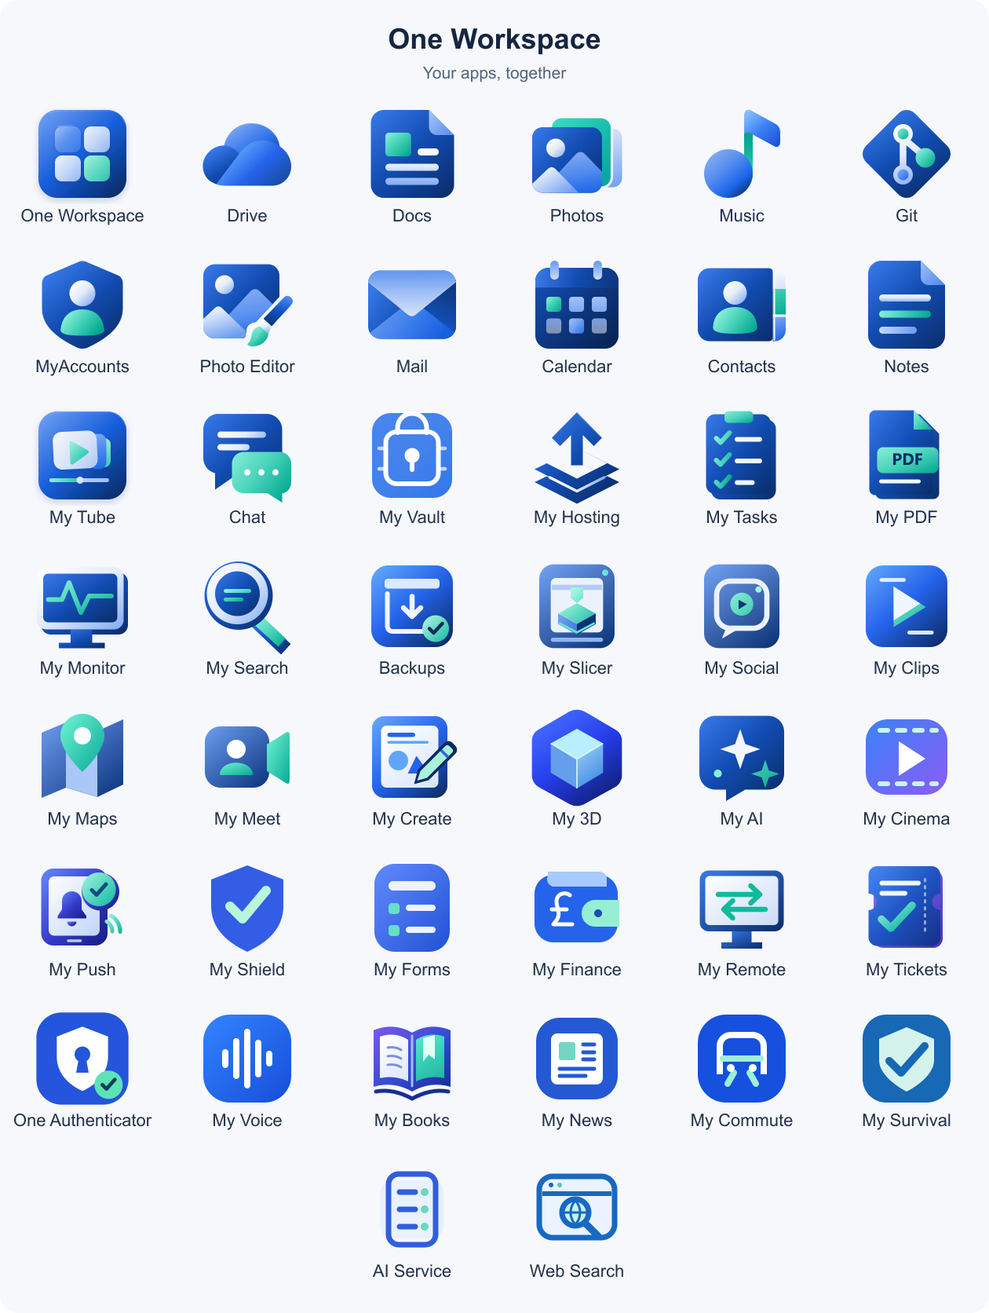
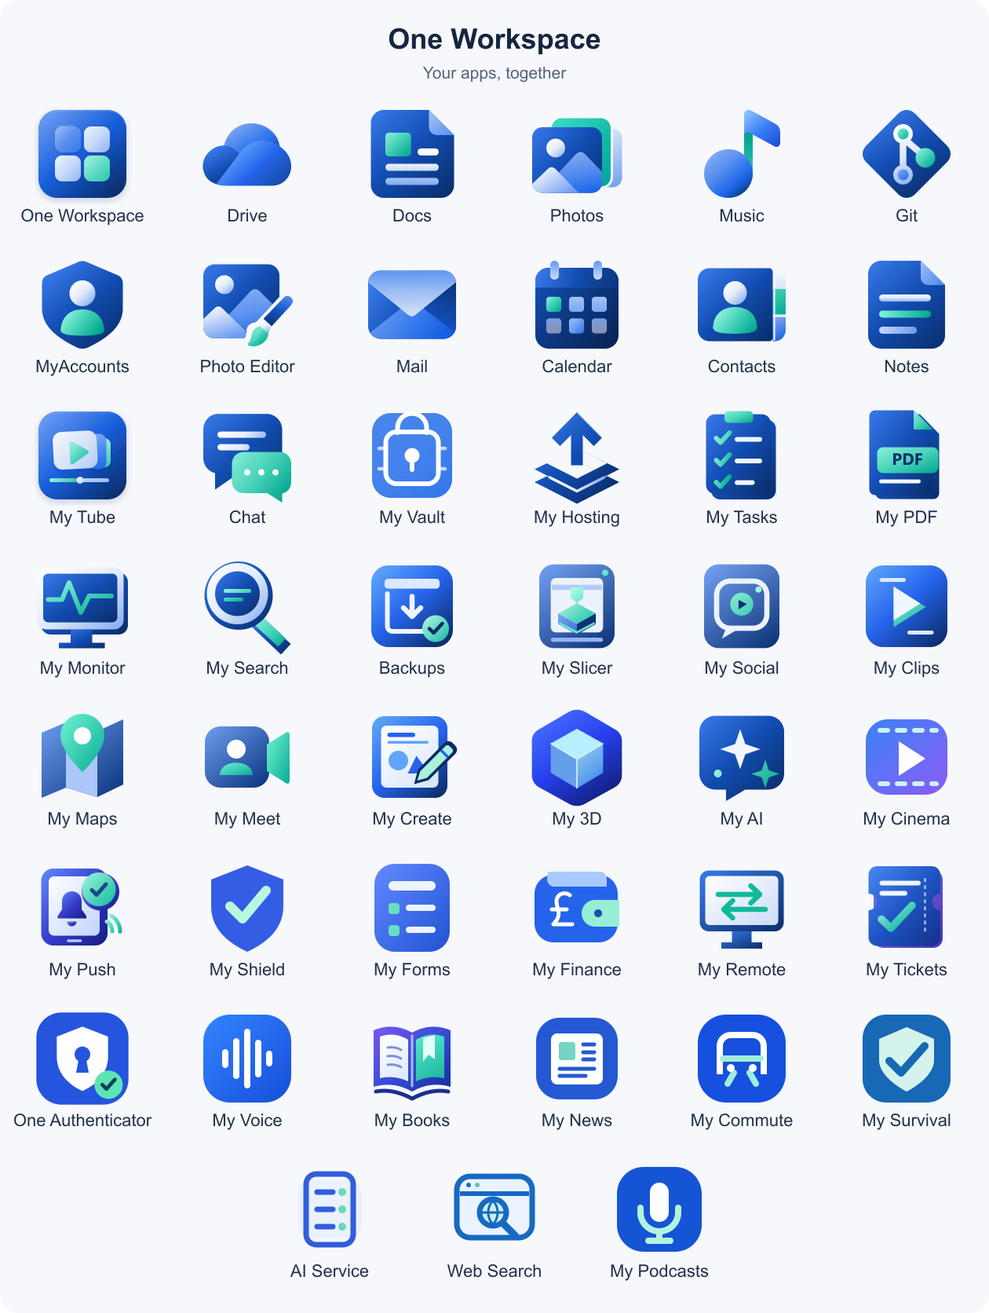
Integrate My Podcasts managed catalog runtime and update ownership

Changed region(s): [[0.2786, 0.8708, 0.7119, 0.9952]]

diff --git a/docs/branding/index.html b/docs/branding/index.html
@@ -2,6 +2,6 @@
 <html lang="en"><head><meta charset="utf-8"><meta name="viewport" content="width=device-width,initial-scale=1"><title>One Workspace logos</title><link rel="icon" href="../../internal/branding/icons/one_workspace.svg"><style>
 *{box-sizing:border-box}body{margin:0;background:#f4f6fb;color:#17233b;font:16px system-ui,sans-serif}main{max-width:1180px;margin:40px auto;padding:0 26px}header{display:flex;gap:20px;align-items:center;margin-bottom:32px}header img{width:72px;height:72px}h1{font-size:32px;margin:0 0 8px;letter-spacing:-1px}p{margin:0;color:#65718a}.grid{display:grid;grid-template-columns:repeat(4,1fr);gap:20px}article{background:white;border:1px solid #dfe5ef;border-radius:18px;overflow:hidden}h2{font-size:16px;margin:20px}.samples{display:flex;align-items:center;justify-content:center;gap:18px;height:136px;background:repeating-conic-gradient(#edf0f6 0% 25%,white 0% 50%) 50%/20px 20px}.samples img{width:80px;height:80px}.dark{background:#11182a}.small{display:flex;align-items:center;gap:14px;padding:20px;color:#7b879b;font-size:12px}.small img{flex:none}@media(max-width:850px){.grid{grid-template-columns:repeat(2,1fr)}}@media(max-width:450px){.grid{grid-template-columns:1fr}}
 </style></head><body><main><header><img src="../../internal/branding/icons/one_workspace.svg" alt=""><div><h1>One Workspace</h1><p>The complete app collection · shared blue artwork</p></div></header><div class="grid" id="logos"></div></main><script>
-const apps=[["one_workspace","One Workspace"],["my_drive","Drive"],["my_office","Docs"],["my_photos","Photos"],["my_music","Music"],["my_git","Git"],["my_accounts","MyAccounts"],["photo_editor","Photo Editor"],["my_mail","Mail"],["my_calendar","Calendar"],["my_contacts","Contacts"],["my_notes","Notes"],["my_tube","My Tube"],["my_chat","Chat"],["my_vault","My Vault"],["my_hosting","My Hosting"],["my_tasks","My Tasks"],["my_pdf","My PDF"],["my_monitor","My Monitor"],["my_search","My Search"],["backups","Backups"],["my_slicer","My Slicer"],["my_social","My Social"],["my_clips","My Clips"],["my_maps","My Maps"],["my_meet","My Meet"],["my_create","My Create"],["my_3d","My 3D"],["my_ai","My AI"],["my_cinema","My Cinema"],["my_push","My Push"],["my_shield","My Shield"],["my_forms","My Forms"],["my_finance","My Finance"],["my_remote","My Remote"],["my_tickets","My Tickets"],["one_authenticator","One Authenticator"],["my_voice","My Voice"],["my_books","My Books"],["my_news","My News"],["my_commute","My Commute"],["my_survival","My Survival"],["ai_service","AI Service"],["web_search","Web Search"]];
+const apps=[["one_workspace","One Workspace"],["my_drive","Drive"],["my_office","Docs"],["my_photos","Photos"],["my_music","Music"],["my_git","Git"],["my_accounts","MyAccounts"],["photo_editor","Photo Editor"],["my_mail","Mail"],["my_calendar","Calendar"],["my_contacts","Contacts"],["my_notes","Notes"],["my_tube","My Tube"],["my_chat","Chat"],["my_vault","My Vault"],["my_hosting","My Hosting"],["my_tasks","My Tasks"],["my_pdf","My PDF"],["my_monitor","My Monitor"],["my_search","My Search"],["backups","Backups"],["my_slicer","My Slicer"],["my_social","My Social"],["my_clips","My Clips"],["my_maps","My Maps"],["my_meet","My Meet"],["my_create","My Create"],["my_3d","My 3D"],["my_ai","My AI"],["my_cinema","My Cinema"],["my_push","My Push"],["my_shield","My Shield"],["my_forms","My Forms"],["my_finance","My Finance"],["my_remote","My Remote"],["my_tickets","My Tickets"],["one_authenticator","One Authenticator"],["my_voice","My Voice"],["my_books","My Books"],["my_news","My News"],["my_commute","My Commute"],["my_survival","My Survival"],["ai_service","AI Service"],["web_search","Web Search"],["my_podcasts","My Podcasts"]];
 document.querySelector('#logos').innerHTML=apps.map(([file,name])=>`<article><h2>${name}</h2><div class="samples"><img src="../../internal/branding/icons/${file}.svg" alt="${name}"></div><div class="samples dark"><img src="../../internal/branding/icons/${file}.svg" alt=""></div><div class="small"><img src="${file}-32.png" width="16" height="16" alt=""><img src="${file}-32.png" width="24" height="24" alt=""><img src="${file}-32.png" width="32" height="32" alt=""><span>16 · 24 · 32</span></div></article>`).join('');
 </script></body></html>

diff --git a/scripts/build-managed-seed.py b/scripts/build-managed-seed.py
@@ -9,6 +9,7 @@ from managed_component import remote_component, tickets_component, hosting_repla
 from voice_component import voice_component
 from books_component import books_component
 from commute_component import commute_component
+from podcasts_component import podcasts_component
 from survival_component import survival_component
 from myai_component import myai_replacements
 from websearch_component import websearch_component
@@ -41,7 +42,7 @@ def extract(z,target):
    assert (m.external_attr>>16)&0o170000!=0o120000
   src.extractall(target)
 def main():
- p=argparse.ArgumentParser();p.add_argument('--go',default='go');p.add_argument('--version',required=True);p.add_argument('--cache',required=True);p.add_argument('--out',required=True);p.add_argument('--seed-archive');p.add_argument('--myai-candidate',help='Local acceptance only; publisher rejects candidate builds');p.add_argument('--tickets-candidate',help='Local acceptance only; publisher rejects candidate builds');p.add_argument('--authenticator-candidate',help='Local acceptance only');p.add_argument('--accounts-candidate',help='Local acceptance only');p.add_argument('--books-candidate',help='Local My Books acceptance archive; not a public pin');p.add_argument('--voice-candidate',help='Local acceptance only; publisher rejects candidate builds');p.add_argument('--news-candidate',help='Local My News acceptance archive; not a public pin');p.add_argument('--commute-candidate',help='Local My Commute acceptance only; never publish');p.add_argument('--survival-candidate',help='Local My Survival acceptance only');a=p.parse_args()
+ p=argparse.ArgumentParser();p.add_argument('--go',default='go');p.add_argument('--version',required=True);p.add_argument('--cache',required=True);p.add_argument('--out',required=True);p.add_argument('--seed-archive');p.add_argument('--myai-candidate',help='Local acceptance only; publisher rejects candidate builds');p.add_argument('--tickets-candidate',help='Local acceptance only; publisher rejects candidate builds');p.add_argument('--authenticator-candidate',help='Local acceptance only');p.add_argument('--accounts-candidate',help='Local acceptance only');p.add_argument('--books-candidate',help='Local My Books acceptance archive; not a public pin');p.add_argument('--voice-candidate',help='Local acceptance only; publisher rejects candidate builds');p.add_argument('--news-candidate',help='Local My News acceptance archive; not a public pin');p.add_argument('--commute-candidate',help='Local My Commute acceptance only; never publish');p.add_argument('--survival-candidate',help='Local My Survival acceptance only');p.add_argument('--podcasts-candidate',help='Local My Podcasts acceptance only; never publish');a=p.parse_args()
  cache=Path(a.cache).resolve();out=Path(a.out).resolve();cache.mkdir(parents=True,exist_ok=True);out.mkdir(parents=True,exist_ok=True)
  lock=json.loads((ROOT/'organization-components.lock.json').read_text(encoding='utf-8-sig'))
  seed=asset(lock['managedSeed'],cache,a.seed_archive);remote=asset(lock['myRemote'],cache)
@@ -93,12 +94,17 @@ def main():
  elif lock.get('mySurvival'):survival=asset(lock['mySurvival'],cache)
  else:raise ValueError('Publish and pin My Survival before a release, or use --survival-candidate for local acceptance')
  survival_stage=Path(tempfile.mkdtemp(prefix='survival-',dir=cache));extract(survival,survival_stage)
- contracts=[websearch_component(ROOT,a.go,cache/'websearch',a.version),survival_component(survival_stage,allow_candidate=bool(a.survival_candidate)),news_contract,commute_contract,books_contract,contract,ticket_contract,authenticator_component(auth_stage),voice_component(voice_stage,allow_candidate=bool(a.voice_candidate))]
+ if a.podcasts_candidate:podcasts=Path(a.podcasts_candidate).resolve()
+ elif lock.get('myPodcasts'):podcasts=asset(lock['myPodcasts'],cache)
+ else:raise ValueError('Publish and pin My Podcasts or pass --podcasts-candidate for local acceptance')
+ podcasts_stage=Path(tempfile.mkdtemp(prefix='podcasts-',dir=cache));extract(podcasts,podcasts_stage)
+ podcasts_contract=podcasts_component(podcasts_stage,allow_candidate=bool(a.podcasts_candidate))
+ contracts=[podcasts_contract,websearch_component(ROOT,a.go,cache/'websearch',a.version),survival_component(survival_stage,allow_candidate=bool(a.survival_candidate)),news_contract,commute_contract,books_contract,contract,ticket_contract,authenticator_component(auth_stage),voice_component(voice_stage,allow_candidate=bool(a.voice_candidate))]
  env=os.environ.copy();env.update(CGO_ENABLED='0',GOTOOLCHAIN='local')
  def go(*args):subprocess.run([a.go,*args],cwd=ROOT,env=env,check=True)
  go('build','-buildvcs=false','-trimpath','-ldflags',f'-s -w -X main.version={a.version}','-o',str(out/'Workspace.exe'),'./cmd/workspace')
  with zipfile.ZipFile(seed) as base:
-  cat=json.loads(base.read('catalog.json'));old=json.loads(json.dumps(cat));cat['version']=a.version;cat['installerIntegration']=13
+  cat=json.loads(base.read('catalog.json'));old=json.loads(json.dumps(cat));cat['version']=a.version;cat['installerIntegration']=14
   for key,item in old['packages'].items():
    h=hashlib.sha256();size=0
    with base.open(item['file']) as src:
@@ -137,6 +143,6 @@ def main():
     for item in contract['inputs'].values():dst.write(item['source'],item['file'])
  shutil.copyfile(payload,out/'workspace-bundle.zip')
  go('build','-buildvcs=false','-trimpath','-ldflags','-s -w -X github.com/oneworkspacestudio/one-workspace/internal/distribution.Repository=oneworkspacestudio/one-workspace','-o',str(out/'WorkspaceSetup-windows-amd64.exe'),'./cmd/setup')
- (out/'managed-build.json').write_text(json.dumps({'schema':1,'version':a.version,'seed':lock['managedSeed'],'remote':lock['myRemote'],'tickets':lock['myTickets'],'accounts':lock['accounts'],'hosting':lock['myHosting'],'voice':lock['myVoice'],'authenticator':lock['oneAuthenticator'],'books':lock.get('myBooks'),'news':lock.get('myNews'),'commute':lock.get('myCommute'),'myAI':lock['myAI'],'myTube':lock['myTube'],'mySlicer':lock['mySlicer'],'myFinance':lock['myFinance'],'survival':lock.get('mySurvival'),'candidate':bool(a.myai_candidate or a.survival_candidate or a.commute_candidate or a.news_candidate or a.books_candidate or a.tickets_candidate or a.authenticator_candidate or a.accounts_candidate or a.voice_candidate),'priorAppContractsRetainedExceptAccountsHostingMyAIMyTubeSlicerAndFinanceVersions':True,'priorPackagesRetainedExceptManagerAccountsHostingMyAIMyTubeSlicerFinanceAndReleaseNotes':True,'completeInventory':len(cat['apps']),'builder':'scripts/build-managed-seed.py'},indent=2),encoding='utf-8')
+ (out/'managed-build.json').write_text(json.dumps({'schema':1,'version':a.version,'seed':lock['managedSeed'],'remote':lock['myRemote'],'tickets':lock['myTickets'],'accounts':lock['accounts'],'hosting':lock['myHosting'],'voice':lock['myVoice'],'authenticator':lock['oneAuthenticator'],'books':lock.get('myBooks'),'news':lock.get('myNews'),'commute':lock.get('myCommute'),'myAI':lock['myAI'],'myTube':lock['myTube'],'mySlicer':lock['mySlicer'],'myFinance':lock['myFinance'],'survival':lock.get('mySurvival'),'podcasts':lock.get('myPodcasts'),'candidate':bool(a.podcasts_candidate or a.myai_candidate or a.survival_candidate or a.commute_candidate or a.news_candidate or a.books_candidate or a.tickets_candidate or a.authenticator_candidate or a.accounts_candidate or a.voice_candidate),'priorAppContractsRetainedExceptAccountsHostingMyAIMyTubeSlicerAndFinanceVersions':True,'priorPackagesRetainedExceptManagerAccountsHostingMyAIMyTubeSlicerFinanceAndReleaseNotes':True,'completeInventory':len(cat['apps']),'builder':'scripts/build-managed-seed.py'},indent=2),encoding='utf-8')
  print('Verified managed bundle:',len(cat['apps']),'apps;',len(cat['packages']),'packages',flush=True)
 if __name__=='__main__':main()

diff --git a/scripts/podcasts_component.py b/scripts/podcasts_component.py
@@ -1,0 +1,25 @@
+"""My Podcasts package: one executable with embedded UI and private apphost state."""
+import hashlib,json,re
+from pathlib import Path
+
+def podcasts_component(root,allow_candidate=False):
+ root=Path(root).resolve();c=json.loads((root/'compatibility.json').read_text(encoding='utf-8-sig'));m=json.loads((root/'manifest.json').read_text(encoding='utf-8-sig'))
+ assert c['schema']==1 and c['id']=='podcasts' and c['route']=='/podcasts' and c['oidc'] is True
+ assert c['workspaceInstallerIntegration']==14 and c['minimumWorkspaceVersion']=='0.3.0-preview.122'
+ assert c['singleExecutable'] is True and c['capabilities']==['native-podcasts-v1']
+ assert m['version']==c['version'] and m['executableSHA256']==hashlib.sha256((root/'MyPodcasts.exe').read_bytes()).hexdigest()
+ if not allow_candidate:assert m.get('candidate') is False and re.fullmatch('[a-f0-9]{40}',m.get('sourceCommit',''))
+ inputs={}
+ for p in sorted(root.rglob('*')):
+  if not p.is_file():continue
+  rel=p.relative_to(root).as_posix()
+  if rel=='MyPodcasts.exe':key,dest='podcasts',rel
+  elif rel in ['LICENSE','NOTICE','THIRD-PARTY-NOTICES.md']:key,dest='podcasts-'+rel,'licenses/MyPodcasts-'+rel
+  elif rel in ['compatibility.json','manifest.json']:key,dest='podcasts-'+('contract' if rel=='compatibility.json' else 'manifest'),'docs/MyPodcasts/'+rel
+  elif rel.startswith('licenses/'):key,dest='podcasts-license-'+hashlib.sha256(rel.encode()).hexdigest()[:16],'licenses/MyPodcasts/'+rel[9:]
+  elif rel in ['README.md','docs/ACCEPTANCE.md','docs/DATA-SOURCES.md','docs/SECURITY.md','docs/PRODUCTION.md']:key,dest='podcasts-doc-'+hashlib.sha256(rel.encode()).hexdigest()[:16],'docs/MyPodcasts/'+rel
+  else:raise ValueError('Unexpected Podcasts payload '+rel)
+  inputs[key]={'source':str(p),'file':dest}
+ assert all(k in inputs for k in ['podcasts','podcasts-contract','podcasts-manifest','podcasts-LICENSE','podcasts-NOTICE'])
+ app={'id':'podcasts','name':'My Podcasts','description':'Create researched technology podcasts with private background production','version':c['version'],'kind':'process','package':'podcasts','executable':'MyPodcasts.exe','port':9044,'route':'/podcasts','stripPrefix':True,'health':'/healthz','depends':['accounts'],'oidc':True,'callback':'/podcasts/auth/callback','args':['--data','${DATA}/podcasts','--listen','127.0.0.1:${PORT}','--origin','${ORIGIN}/podcasts','--no-browser'],'source':'https://github.com/oneworkspacestudio/my-podcasts/releases/tag/v'+c['version']}
+ return {'app':app,'inputs':inputs}

diff --git a/scripts/test-publisher.py b/scripts/test-publisher.py
@@ -12,10 +12,11 @@ class PublisherWindowsArguments(unittest.TestCase):
     def test_books_publisher_requires_current_complete_inventory(self):
         registry=json.loads((publisher.ROOT/'internal/catalog/managed-apps.json').read_text())['apps']
         apps=[dict(id=a['id'],name=a['name'],route=a['route'],oidc=a['oidc'],source='https://github.com/'+a['repository']+'/releases/tag/test') for a in registry]
-        publisher.validate_managed_catalog(dict(installerIntegration=13,apps=apps))
-        with self.assertRaises(RuntimeError):publisher.validate_managed_catalog(dict(installerIntegration=9,apps=apps))
-        with self.assertRaises(RuntimeError):publisher.validate_managed_catalog(dict(installerIntegration=13,apps=[a for a in apps if a['id']!='books']))
-        with self.assertRaises(RuntimeError):publisher.validate_managed_catalog(dict(installerIntegration=13,apps=[a for a in apps if a['id']!='aiservice']))
+        publisher.validate_managed_catalog(dict(installerIntegration=14,apps=apps))
+        with self.assertRaises(RuntimeError):publisher.validate_managed_catalog(dict(installerIntegration=13,apps=apps))
+        with self.assertRaises(RuntimeError):publisher.validate_managed_catalog(dict(installerIntegration=14,apps=[a for a in apps if a['id']!='podcasts']))
+        with self.assertRaises(RuntimeError):publisher.validate_managed_catalog(dict(installerIntegration=14,apps=[a for a in apps if a['id']!='books']))
+        with self.assertRaises(RuntimeError):publisher.validate_managed_catalog(dict(installerIntegration=14,apps=[a for a in apps if a['id']!='aiservice']))
     def test_large_catalog_uploads_every_asset_once_with_bounded_utf16_commands(self):
         paths = ['C:/Synthetic staging folder \U0001f4e6/' + 'x'*100 + '/workspace-package-' + str(n) + '.bin' for n in range(600)]
         commands = list(publisher.upload_commands('v0.3.0-preview.104', paths))

diff --git a/internal/distribution/requirements.go b/internal/distribution/requirements.go
@@ -11,7 +11,7 @@ var managerRequirementVersion = regexp.MustCompile(`^[0-9]+\.[0-9]+\.[0-9]+(?:-[
 // Add a capability only after its manager integration exists and is tested.
 // The origin capability is exercised with actual native SSO, catalog and logout
 // fixtures. It does not claim application E2EE, calling or native mobile support.
-var managerCapabilities = map[string]bool{"shared-ai-service-v1": true, "offline-survival-v1": true, "native-commute-v1": true, "native-news-v1": true, "native-books-v1": true, "native-voice-v1": true, "oneaccount-mfa-v1": true, "oneaccount-offline-totp-v1": true, "self-hosted-push-v1": true, "app-update-requirements-v1": true, "chat-state-v2": true, "isolated-chat-origin-v1": true, "guarded-social-storage-v1": true, "scoped-social-storage-v2": true, "scoped-clips-storage-v1": true, "scoped-forms-storage-v1": true, "native-tickets-v1": true, "native-hosting-git-v1": true}
+var managerCapabilities = map[string]bool{"native-podcasts-v1": true, "shared-ai-service-v1": true, "offline-survival-v1": true, "native-commute-v1": true, "native-news-v1": true, "native-books-v1": true, "native-voice-v1": true, "oneaccount-mfa-v1": true, "oneaccount-offline-totp-v1": true, "self-hosted-push-v1": true, "app-update-requirements-v1": true, "chat-state-v2": true, "isolated-chat-origin-v1": true, "guarded-social-storage-v1": true, "scoped-social-storage-v2": true, "scoped-clips-storage-v1": true, "scoped-forms-storage-v1": true, "native-tickets-v1": true, "native-hosting-git-v1": true}
 
 func checkRequirements(current, minimum string, capabilities []string) error {
 	if len(minimum) > 80 || !managerRequirementVersion.MatchString(minimum) {

diff --git a/scripts/test-podcasts-component.py b/scripts/test-podcasts-component.py
@@ -1,0 +1,16 @@
+import unittest,tempfile,json,hashlib
+from pathlib import Path
+from podcasts_component import podcasts_component
+class PodcastsContract(unittest.TestCase):
+ def test_namespace_hash_and_candidate_boundary(self):
+  with tempfile.TemporaryDirectory() as d:
+   r=Path(d);(r/'MyPodcasts.exe').write_bytes(b'synthetic');(r/'LICENSE').write_text('MIT');(r/'NOTICE').write_text('Synthetic notices')
+   (r/'compatibility.json').write_text(json.dumps(dict(schema=1,id='podcasts',route='/podcasts',oidc=True,version='0.1.0-preview.1',workspaceInstallerIntegration=14,minimumWorkspaceVersion='0.3.0-preview.122',singleExecutable=True,capabilities=['native-podcasts-v1'])))
+   (r/'manifest.json').write_text(json.dumps(dict(version='0.1.0-preview.1',candidate=True,executableSHA256=hashlib.sha256(b'synthetic').hexdigest())))
+   c=podcasts_component(r,True);self.assertEqual(c['app']['callback'],'/podcasts/auth/callback');self.assertEqual(c['app']['port'],9044);self.assertTrue(all(k=='podcasts' or k.startswith('podcasts-') for k in c['inputs']))
+   with self.assertRaises(AssertionError):podcasts_component(r)
+   (r/'private-data.json').write_text('{}')
+   with self.assertRaises(ValueError):podcasts_component(r,True)
+   (r/'private-data.json').unlink();(r/'MyPodcasts.exe').write_bytes(b'changed')
+   with self.assertRaises(AssertionError):podcasts_component(r,True)
+if __name__=='__main__':unittest.main()

diff --git a/internal/catalog/podcasts_test.go b/internal/catalog/podcasts_test.go
@@ -1,0 +1,30 @@
+package catalog
+
+import "testing"
+
+func TestPodcastsSelectionOwnsWholePackage(t *testing.T) {
+	if DefaultInstall("podcasts") || CategoryFor("podcasts").ID != "development" {
+		t.Fatal("Podcast studio must be optional Creative & Development")
+	}
+	c := Catalog{Packages: map[string]Package{"podcasts": {File: "MyPodcasts.exe"}, "podcasts-contract": {File: "docs/MyPodcasts/compatibility.json"}, "podcasts-manifest": {File: "docs/MyPodcasts/manifest.json"}, "unrelated": {File: "Other.exe"}}, Apps: []App{{ID: "podcasts", Package: "podcasts"}, {ID: "other", Package: "unrelated"}}}
+	for _, on := range []bool{true, false} {
+		ids := InstallPackageIDs(c, map[string]bool{"podcasts": on, "other": true})
+		if ids["podcasts"] != on || ids["podcasts-contract"] != on || ids["podcasts-manifest"] != on || !ids["unrelated"] {
+			t.Fatal("package ownership drift", ids)
+		}
+	}
+}
+func TestPodcastsRequiredInCompleteRegistry(t *testing.T) {
+	var c Catalog
+	for _, a := range ManagedApps() {
+		if a.ID != "podcasts" {
+			c.Apps = append(c.Apps, App{ID: a.ID, Name: a.Name, Route: a.Route, OIDC: a.OIDC})
+		}
+	}
+	if c.ValidateManagedInventory() == nil {
+		t.Fatal("release must reject missing Podcasts")
+	}
+	if InstallerIntegration < 14 {
+		t.Fatal("old controllers cannot install Podcasts")
+	}
+}

diff --git a/internal/suite/podcasts_test.go b/internal/suite/podcasts_test.go
@@ -1,0 +1,27 @@
+package suite
+
+import (
+	"github.com/oneworkspacestudio/one-workspace/internal/catalog"
+	"path/filepath"
+	"testing"
+)
+
+func TestPodcastsManagedContract(t *testing.T) {
+	c := NewConfig(Request{Port: 29000, Mode: "local", Programs: "C:/Synthetic/Apps", Data: "C:/Synthetic/Data", Files: "C:/Synthetic/Files"}, catalog.Catalog{Apps: []catalog.App{{ID: "podcasts", Kind: "process", Executable: "MyPodcasts.exe", Port: 9044, Route: "/podcasts", OIDC: true}}})
+	a, ok := c.Catalog.Find("podcasts")
+	if !ok || a.Port != 29054 || !foundationApp("podcasts") || !knownUpdateStorageProfile("podcasts") {
+		t.Fatal("Podcasts runtime/auth/storage not registered", a)
+	}
+	if appWorkingDir(c, "podcasts") != filepath.Join(c.Data, "podcasts") || len(appUpdatePrivatePaths("podcasts")) != 1 {
+		t.Fatal("private recovery scope missing")
+	}
+	for _, s := range suiteSignIns {
+		if s.id == "podcasts" {
+			if s.login != "/podcasts/auth/login" || s.logout != "/podcasts/auth/logout" || s.cookies[0] != "podcasts_session" {
+				t.Fatal("sign-in/out contract drift")
+			}
+			return
+		}
+	}
+	t.Fatal("shared sign-in/out missing")
+}

diff --git a/internal/suite/seamless.go b/internal/suite/seamless.go
@@ -24,6 +24,7 @@ var suiteSignIns = []appSignIn{
 	{"websearch", "Web Search", "/websearch", "/api/me", "/websearch/auth/login", "/websearch/auth/logout", []string{"websearch_session"}},
 	{"aiservice", "AI Service", "/aiservice", "/api/me", "/aiservice/auth/login", "/aiservice/auth/logout", []string{"aiservice_session"}},
 	{"news", "My News", "/news", "/api/me", "/news/auth/login", "/news/auth/logout", []string{"news_session"}},
+	{"podcasts", "My Podcasts", "/podcasts", "/api/me", "/podcasts/auth/login", "/podcasts/auth/logout", []string{"podcasts_session"}},
 	{"commute", "My Commute", "/commute", "/api/me", "/commute/auth/login", "/commute/auth/logout", []string{"commute_session"}},
 	{"books", "My Books", "/books", "/api/me", "/books/auth/login", "/books/auth/logout", []string{"books_session"}},
 	{"survival", "My Survival", "/survival", "/api/me", "/survival/auth/login", "/survival/auth/logout", []string{"survival_session"}},

diff --git a/internal/suite/runtime_storage.go b/internal/suite/runtime_storage.go
@@ -12,7 +12,7 @@ func appWorkingDir(c Config, app string) string {
 	switch app {
 	case "cinema", "myai", "my3d", "create", "maps", "meet", "clips", "social", "slicer", "tasks", "pdf", "monitor", "search", "accounts", "drive", "photos", "gitea", "music", "mail", "calendar", "contacts", "notes", "my-tube", "chat":
 		return filepath.Join(c.Data, app)
-	case "websearch", "aiservice", "survival", "commute", "news", "books", "voice", "authenticator", "push", "shield", "forms", "finance", "remote", "tickets":
+	case "websearch", "aiservice", "survival", "podcasts", "commute", "news", "books", "voice", "authenticator", "push", "shield", "forms", "finance", "remote", "tickets":
 		return filepath.Join(c.Data, app)
 	case "hosting":
 		return filepath.Join(c.Data, "my-hosting")

diff --git a/internal/distribution/updates.go b/internal/distribution/updates.go
@@ -93,6 +93,7 @@ type updateGroup struct {
 var updateGroups = []updateGroup{
 	{"websearch", "Web Search", "one-workspace", []string{"websearch"}},
 	{"survival", "My Survival", "my-survival", []string{"survival"}},
+	{"podcasts", "My Podcasts", "my-podcasts", []string{"podcasts"}},
 	{"commute", "My Commute", "my-commute", []string{"commute"}},
 	{"books", "My Books", "my-books", []string{"books"}},
 	{"news", "My News", "my-news", []string{"news"}},
@@ -307,6 +308,9 @@ func updatePackageOwner(id string) string {
 	}
 	if id == "news" || strings.HasPrefix(id, "news-") {
 		return "news"
+	}
+	if id == "podcasts" || strings.HasPrefix(id, "podcasts-") {
+		return "podcasts"
 	}
 	if id == "commute" || strings.HasPrefix(id, "commute-") {
 		return "commute"

diff --git a/internal/suite/update_metadata.go b/internal/suite/update_metadata.go
@@ -158,7 +158,7 @@ func validateUpdateMetadata(c Config, p *UpdateMetadataPolicy) error {
 }
 
 func knownUpdateStorageProfile(id string) bool {
-	if id == "websearch" || id == "aiservice" || id == "survival" || id == "commute" || id == "news" || id == "books" || id == "voice" || id == "authenticator" || id == "finance" || id == "remote" || id == "tickets" {
+	if id == "websearch" || id == "aiservice" || id == "survival" || id == "podcasts" || id == "commute" || id == "news" || id == "books" || id == "voice" || id == "authenticator" || id == "finance" || id == "remote" || id == "tickets" {
 		return true
 	}
 	switch id {
